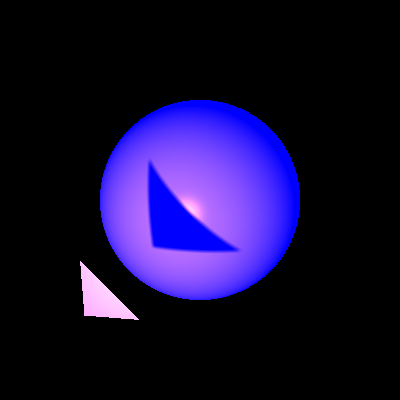
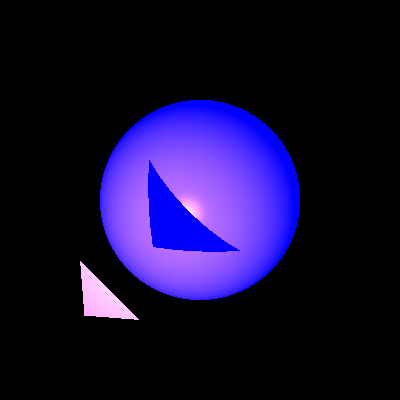
image - final.

Changed region(s): [[0.36, 0.39, 0.6, 0.63], [0.45, 0.51, 0.48, 0.54]]

diff --git a/unittests/elements/LightsTests.java b/unittests/elements/LightsTests.java
@@ -398,19 +398,7 @@ Geometry door1 = new Polygon(new Point3D(0,31,0),  new Point3D(0,61,0),
                 .setMaterial(new Material().setkD(0.3).setkS(0.7).setnShininess(100).setkT(0.8));
         Geometry triangle8 = new Triangle((new Point3D(-56,30,71)),new Point3D(-62,21,66),
                 new Point3D(-50,21,66))
-                .setEmission(new Color(java.awt.Color.pink).scale(0.1))
                 .setMaterial(new Material().setkD(0.3).setkS(0.7).setnShininess(100).setkT(0.8));
-
-        //wallSpheres
-        Geometry sphere1 = new Sphere(new Point3D(35, 30, 70), 5)
-                         .setEmission(new Color(java.awt.Color.ORANGE).scale(0.1))
-                .setMaterial(new Material().setkD(0.5).setkS(0.9).setnShininess(100));
-        Geometry sphere2 = new Sphere(new Point3D(35, 30, 45), 5)
-                .setEmission(new Color(java.awt.Color.ORANGE).scale(0.1))
-                .setMaterial(new Material().setkD(0.5).setkS(0.9).setnShininess(100));
-        Geometry sphere3 = new Sphere(new Point3D(35, 30, 95), 5)
-                .setEmission(new Color(java.awt.Color.ORANGE).scale(0.1))
-                .setMaterial(new Material().setkD(0.5).setkS(0.9).setnShininess(100));
 
 
 
@@ -418,17 +406,16 @@ Geometry door1 = new Polygon(new Point3D(0,31,0),  new Point3D(0,61,0),
         scene1._geometries.add(door1,middle1,middle2,door2,door3,door4,door5,middle3,floor,wallBehind,handle1,handle2,handle3,handle4,roof
         ,wallRight,wallLeft,foot11,foot12,foot13,foot14,foot21,foot22,foot23,foot24,foot31,foot32,foot33,foot34,foot41,foot42,foot43,foot44,
                 plateUp,plateDown,plateSide1,plateSide2,plateSide3,plateSide4,middle4,door6,triangle1,triangle2,triangle3,triangle4,
-                triangle5,triangle6,triangle7,triangle8,sphere1,sphere2,sphere3,wallFront);
+                triangle5,triangle6,triangle7,triangle8,wallFront);
         scene1._lights.add(new PointLight(new Color(java.awt.Color.YELLOW)
                 .add(new Color(java.awt.Color.YELLOW)).scale(0.2), new Point3D(0, 50, 40),3));
-        scene1._lights.add(new SpotLight(new Vector(0,-1,0),new Color(java.awt.Color.ORANGE).scale(0.5), new Point3D(-56, 50, 71),3));
-        scene1._lights.add(new SpotLight(new Vector(1,-1,0),new Color(java.awt.Color.cyan).scale(0.7), new Point3D(0, 60, 70),3));
+        scene1._lights.add(new SpotLight(new Vector(0,-1,0),new Color(java.awt.Color.orange), new Point3D(-56, 50, 71),3));
         ImageWriter imageWriter = new ImageWriter("test1", 1000, 1000);
         Render render = new Render()//
                 .setImageWriter(imageWriter) //
                 .setCamera(camera3) //
                 .setRayTracer(new RayTracerBasic(scene1)
-                .setMIN_SHADOW_SAMPLES(0));
+                .setMIN_SHADOW_SAMPLES(100));
         render.renderImage();
         render.writeToImage();
     }

diff --git a/src/renderer/RayTracerBasic.java b/src/renderer/RayTracerBasic.java
@@ -292,7 +292,7 @@ public class RayTracerBasic extends RayTracerBase {
 
        double lightDistance = light.getDistance(geoPoint.point);
        //directional light - no position,  or no need to active soft shadow (lightPoints size =0)
-       if (lightPoints ==null || lightPoints.size() == 0){
+       if (lightPoints == null || MIN_SHADOW_SAMPLES == 0){
            lightRays.add(new Ray(geoPoint.point, l.scale(-1),n));
        }
        //light point with position in the 3D model -
@@ -315,7 +315,7 @@ public class RayTracerBasic extends RayTracerBase {
                for (GeoPoint gp : intersections) {
                    if (Util.alignZero(gp.point.distance(geoPoint.point) - lightDistance) <= 0) {
                        ktr *= gp.geometry.getMaterial()._kT;
-                       if (ktr < MIN_CALC_COLOR_K) {
+                        if (ktr < MIN_CALC_COLOR_K) {
                            break;
                        }
                        ;
